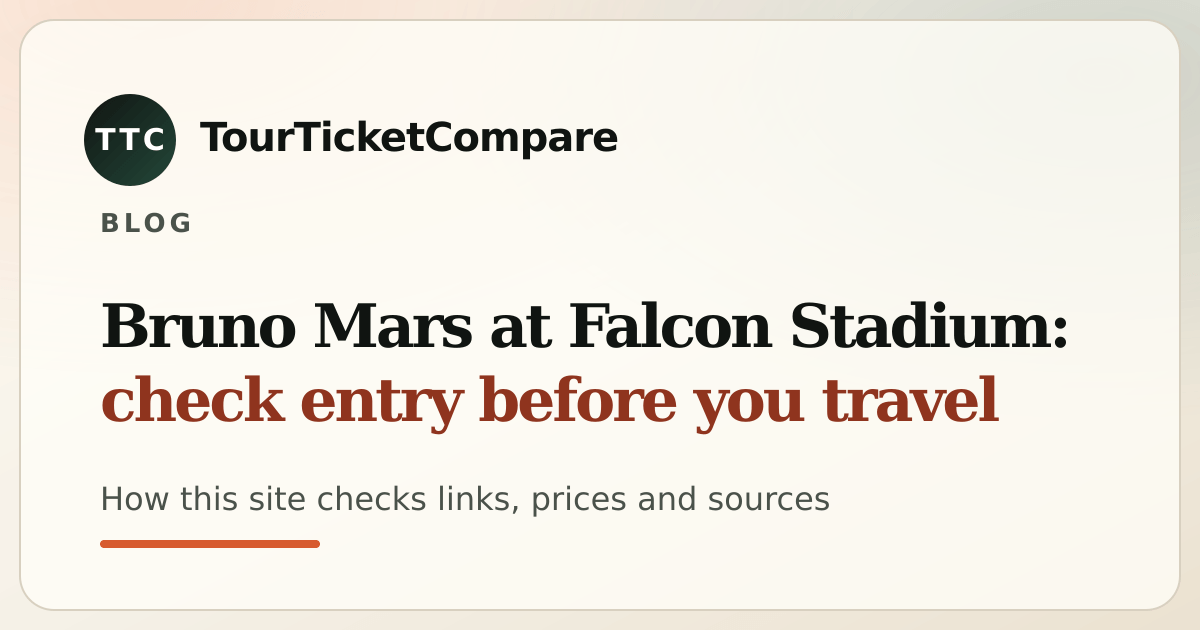
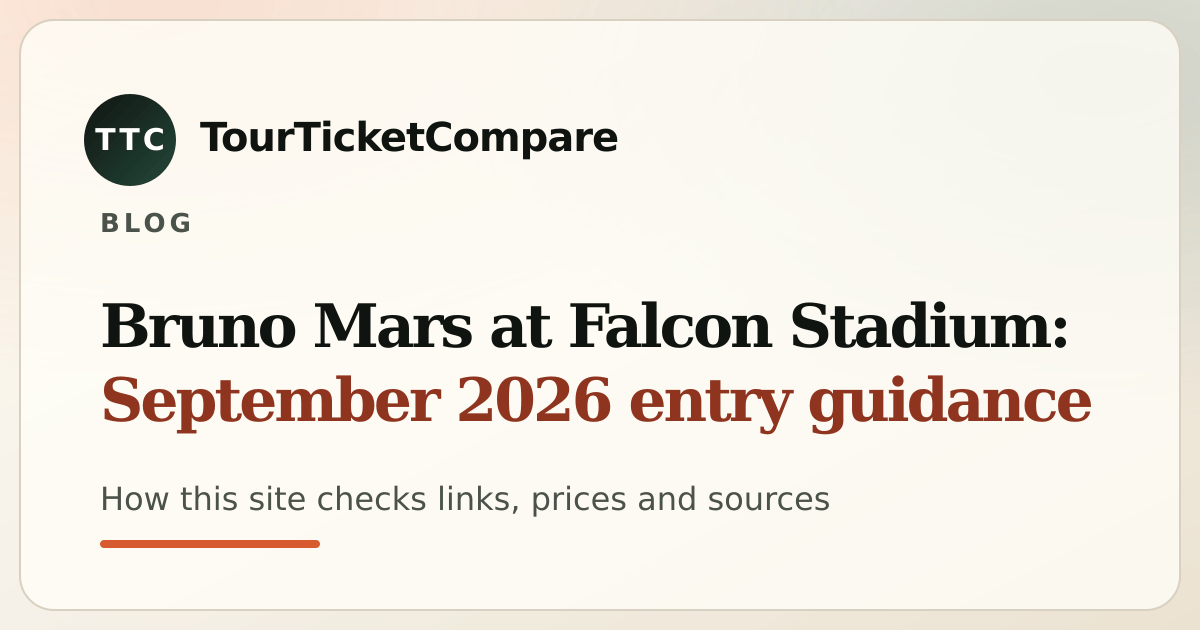
Approve price guides for the eight highest-demand eligible artists
Adds bruno-mars, olivia-rodrigo, harry-styles, ed-sheeran, tame-impala,
charli-xcx, gracie-abrams and don-omar to PRICE_GUIDE_ARTISTS. Each clears
priceGuideGate on current data, so all ten guides render indexable.
Regenerates the OG cards with npm run og:build, which also picks up cards
for routes that changed since the last build.

Claude-Session: https://claude.ai/code/session_01YKEySEYB2WoNs4zGrvLnZV

Changed region(s): [[0.0617, 0.573, 0.925, 0.6937]]

diff --git a/functions/_og-cards.generated.js b/functions/_og-cards.generated.js
@@ -9,13 +9,14 @@
 // `npm run og:check` fails only on a manifest that points at a missing file.
 
 export const OG_CARDS = {
+  "/artists/a-perfect-circle": {"url":"/og/artists-a-perfect-circle.png","alt":"Tickets & tour dates: A Perfect Circle"},
+  "/artists/a-perfect-circle/tickets/las-vegas-united-states": {"url":"/og/artists-a-perfect-circle-tickets-las-vegas-united-states.png","alt":"Tickets: A Perfect Circle in Las Vegas"},
   "/artists/alan-walker": {"url":"/og/artists-alan-walker.png","alt":"Tickets & tour dates: Alan Walker"},
   "/artists/alan-walker/tickets/new-york-united-states": {"url":"/og/artists-alan-walker-tickets-new-york-united-states.png","alt":"Tickets: Alan Walker in New York"},
   "/artists/alan-walker/tickets/toronto-canada": {"url":"/og/artists-alan-walker-tickets-toronto-canada.png","alt":"Tickets: Alan Walker in Toronto"},
   "/artists/amble": {"url":"/og/artists-amble.png","alt":"Tickets & tour dates: Amble"},
   "/artists/amble/tickets/amsterdam-netherlands": {"url":"/og/artists-amble-tickets-amsterdam-netherlands.png","alt":"Tickets: Amble in Amsterdam"},
   "/artists/amble/tickets/co-mayo-ireland": {"url":"/og/artists-amble-tickets-co-mayo-ireland.png","alt":"Tickets: Amble in Co. Mayo"},
-  "/artists/amble/tickets/glasgow-united-kingdom": {"url":"/og/artists-amble-tickets-glasgow-united-kingdom.png","alt":"Tickets: Amble in Glasgow"},
   "/artists/amble/tickets/london-united-kingdom": {"url":"/og/artists-amble-tickets-london-united-kingdom.png","alt":"Tickets: Amble in London"},
   "/artists/amble/tickets/manchester-united-kingdom": {"url":"/og/artists-amble-tickets-manchester-united-kingdom.png","alt":"Tickets: Amble in Manchester"},
   "/artists/andrea-bocelli": {"url":"/og/artists-andrea-bocelli.png","alt":"Tickets & tour dates: Andrea Bocelli"},
@@ -35,6 +36,7 @@ export const OG_CARDS = {
   "/artists/blue-october/tickets/portland-united-states": {"url":"/og/artists-blue-october-tickets-portland-united-states.png","alt":"Tickets: Blue October in Portland"},
   "/artists/blue-october/tickets/sacramento-united-states": {"url":"/og/artists-blue-october-tickets-sacramento-united-states.png","alt":"Tickets: Blue October in Sacramento"},
   "/artists/bruno-mars": {"url":"/og/artists-bruno-mars.png","alt":"Tickets & tour dates: Bruno Mars"},
+  "/artists/bruno-mars/ticket-prices": {"url":"/og/artists-bruno-mars-ticket-prices.png","alt":"Ticket prices: Bruno Mars"},
   "/artists/bruno-mars/tickets/burswood-australia": {"url":"/og/artists-bruno-mars-tickets-burswood-australia.png","alt":"Tickets: Bruno Mars in Burswood"},
   "/artists/bruno-mars/tickets/docklands-australia": {"url":"/og/artists-bruno-mars-tickets-docklands-australia.png","alt":"Tickets: Bruno Mars in Docklands"},
   "/artists/bruno-mars/tickets/inglewood-united-states": {"url":"/og/artists-bruno-mars-tickets-inglewood-united-states.png","alt":"Tickets: Bruno Mars in Inglewood"},
@@ -46,8 +48,13 @@ export const OG_CARDS = {
   "/artists/bts/tickets/docklands-australia": {"url":"/og/artists-bts-tickets-docklands-australia.png","alt":"Tickets: BTS in Docklands"},
   "/artists/bts/tickets/sydney-olympic-park-australia": {"url":"/og/artists-bts-tickets-sydney-olympic-park-australia.png","alt":"Tickets: BTS in Sydney Olympic Park"},
   "/artists/charli-xcx": {"url":"/og/artists-charli-xcx.png","alt":"Tickets & tour dates: Charli xcx"},
+  "/artists/charli-xcx/ticket-prices": {"url":"/og/artists-charli-xcx-ticket-prices.png","alt":"Ticket prices: Charli xcx"},
   "/artists/charli-xcx/tickets/inglewood-united-states": {"url":"/og/artists-charli-xcx-tickets-inglewood-united-states.png","alt":"Tickets: Charli xcx in Inglewood"},
   "/artists/charli-xcx/tickets/london-united-kingdom": {"url":"/og/artists-charli-xcx-tickets-london-united-kingdom.png","alt":"Tickets: Charli xcx in London"},
+  "/artists/chelsea-cutler": {"url":"/og/artists-chelsea-cutler.png","alt":"Tickets & tour dates: Chelsea Cutler"},
+  "/artists/chelsea-cutler/tickets/washington-united-states": {"url":"/og/artists-chelsea-cutler-tickets-washington-united-states.png","alt":"Tickets: Chelsea Cutler in Washington"},
+  "/artists/daughtry": {"url":"/og/artists-daughtry.png","alt":"Tickets & tour dates: Daughtry"},
+  "/artists/daughtry/tickets/nashville-united-states": {"url":"/og/artists-daughtry-tickets-nashville-united-states.png","alt":"Tickets: Daughtry in Nashville"},
   "/artists/death-cab-for-cutie": {"url":"/og/artists-death-cab-for-cutie.png","alt":"Tickets & tour dates: Death Cab for Cutie"},
   "/artists/death-cab-for-cutie/tickets/atlanta-united-states": {"url":"/og/artists-death-cab-for-cutie-tickets-atlanta-united-states.png","alt":"Tickets: Death Cab for Cutie in Atlanta"},
   "/artists/death-cab-for-cutie/tickets/boston-united-states": {"url":"/og/artists-death-cab-for-cutie-tickets-boston-united-states.png","alt":"Tickets: Death Cab for Cutie in Boston"},
@@ -56,6 +63,7 @@ export const OG_CARDS = {
   "/artists/dinosaur-jr/tickets/seattle-united-states": {"url":"/og/artists-dinosaur-jr-tickets-seattle-united-states.png","alt":"Tickets: Dinosaur Jr. in Seattle"},
   "/artists/doja-cat": {"url":"/og/artists-doja-cat.png","alt":"Tickets & tour dates: Doja Cat"},
   "/artists/don-omar": {"url":"/og/artists-don-omar.png","alt":"Tickets & tour dates: Don Omar"},
+  "/artists/don-omar/ticket-prices": {"url":"/og/artists-don-omar-ticket-prices.png","alt":"Ticket prices: Don Omar"},
   "/artists/don-omar/tickets/inglewood-united-states": {"url":"/og/artists-don-omar-tickets-inglewood-united-states.png","alt":"Tickets: Don Omar in Inglewood"},
   "/artists/don-omar/tickets/miami-united-states": {"url":"/og/artists-don-omar-tickets-miami-united-states.png","alt":"Tickets: Don Omar in Miami"},
   "/artists/don-omar/tickets/newark-united-states": {"url":"/og/artists-don-omar-tickets-newark-united-states.png","alt":"Tickets: Don Omar in Newark"},
@@ -63,8 +71,10 @@ export const OG_CARDS = {
   "/artists/don-omar/tickets/rosemont-united-states": {"url":"/og/artists-don-omar-tickets-rosemont-united-states.png","alt":"Tickets: Don Omar in Rosemont"},
   "/artists/dylan-scott": {"url":"/og/artists-dylan-scott.png","alt":"Tickets & tour dates: Dylan Scott"},
   "/artists/ed-sheeran": {"url":"/og/artists-ed-sheeran.png","alt":"Tickets & tour dates: Ed Sheeran"},
+  "/artists/ed-sheeran/ticket-prices": {"url":"/og/artists-ed-sheeran-ticket-prices.png","alt":"Ticket prices: Ed Sheeran"},
   "/artists/ed-sheeran/tickets/hollywood-united-states": {"url":"/og/artists-ed-sheeran-tickets-hollywood-united-states.png","alt":"Tickets: Ed Sheeran in Hollywood"},
   "/artists/eros-ramazzotti": {"url":"/og/artists-eros-ramazzotti.png","alt":"Tickets & tour dates: Eros Ramazzotti"},
+  "/artists/fantasia": {"url":"/og/artists-fantasia.png","alt":"Tickets & tour dates: Fantasia"},
   "/artists/five-finger-death-punch": {"url":"/og/artists-five-finger-death-punch.png","alt":"Tickets & tour dates: Five Finger Death Punch"},
   "/artists/fkj": {"url":"/og/artists-fkj.png","alt":"Tickets & tour dates: FKJ"},
   "/artists/fkj/tickets/london-united-kingdom": {"url":"/og/artists-fkj-tickets-london-united-kingdom.png","alt":"Tickets: FKJ in London"},
@@ -74,6 +84,7 @@ export const OG_CARDS = {
   "/artists/foy-vance/tickets/london-united-kingdom": {"url":"/og/artists-foy-vance-tickets-london-united-kingdom.png","alt":"Tickets: Foy Vance in London"},
   "/artists/foy-vance/tickets/los-angeles-united-states": {"url":"/og/artists-foy-vance-tickets-los-angeles-united-states.png","alt":"Tickets: Foy Vance in Los Angeles"},
   "/artists/gracie-abrams": {"url":"/og/artists-gracie-abrams.png","alt":"Tickets & tour dates: Gracie Abrams"},
+  "/artists/gracie-abrams/ticket-prices": {"url":"/og/artists-gracie-abrams-ticket-prices.png","alt":"Ticket prices: Gracie Abrams"},
   "/artists/gracie-abrams/tickets/amsterdam-netherlands": {"url":"/og/artists-gracie-abrams-tickets-amsterdam-netherlands.png","alt":"Tickets: Gracie Abrams in Amsterdam"},
   "/artists/gracie-abrams/tickets/atlanta-united-states": {"url":"/og/artists-gracie-abrams-tickets-atlanta-united-states.png","alt":"Tickets: Gracie Abrams in Atlanta"},
   "/artists/gracie-abrams/tickets/barcelona-spain": {"url":"/og/artists-gracie-abrams-tickets-barcelona-spain.png","alt":"Tickets: Gracie Abrams in Barcelona"},
@@ -102,6 +113,7 @@ export const OG_CARDS = {
   "/artists/haiden-henderson": {"url":"/og/artists-haiden-henderson.png","alt":"Tickets & tour dates: Haiden Henderson"},
   "/artists/hans-zimmer": {"url":"/og/artists-hans-zimmer.png","alt":"Tickets & tour dates: Hans Zimmer"},
   "/artists/harry-styles": {"url":"/og/artists-harry-styles.png","alt":"Tickets & tour dates: Harry Styles"},
+  "/artists/harry-styles/ticket-prices": {"url":"/og/artists-harry-styles-ticket-prices.png","alt":"Ticket prices: Harry Styles"},
   "/artists/harry-styles/tickets/arlington-united-states": {"url":"/og/artists-harry-styles-tickets-arlington-united-states.png","alt":"Tickets: Harry Styles in Arlington"},
   "/artists/harry-styles/tickets/atlanta-united-states": {"url":"/og/artists-harry-styles-tickets-atlanta-united-states.png","alt":"Tickets: Harry Styles in Atlanta"},
   "/artists/harry-styles/tickets/chicago-united-states": {"url":"/og/artists-harry-styles-tickets-chicago-united-states.png","alt":"Tickets: Harry Styles in Chicago"},
@@ -156,7 +168,6 @@ export const OG_CARDS = {
   "/artists/michelle-branch/tickets/los-angeles-united-states": {"url":"/og/artists-michelle-branch-tickets-los-angeles-united-states.png","alt":"Tickets: Michelle Branch in Los Angeles"},
   "/artists/michelle-branch/tickets/nashville-united-states": {"url":"/og/artists-michelle-branch-tickets-nashville-united-states.png","alt":"Tickets: Michelle Branch in Nashville"},
   "/artists/michelle-branch/tickets/new-york-united-states": {"url":"/og/artists-michelle-branch-tickets-new-york-united-states.png","alt":"Tickets: Michelle Branch in New York"},
-  "/artists/michelle-branch/tickets/san-francisco-united-states": {"url":"/og/artists-michelle-branch-tickets-san-francisco-united-states.png","alt":"Tickets: Michelle Branch in San Francisco"},
   "/artists/missio": {"url":"/og/artists-missio.png","alt":"Tickets & tour dates: Missio"},
   "/artists/morat": {"url":"/og/artists-morat.png","alt":"Tickets & tour dates: Morat"},
   "/artists/morgan-wallen": {"url":"/og/artists-morgan-wallen.png","alt":"Tickets & tour dates: Morgan Wallen"},
@@ -183,6 +194,7 @@ export const OG_CARDS = {
   "/artists/oasis/tickets/munich-germany": {"url":"/og/artists-oasis-tickets-munich-germany.png","alt":"Tickets: Oasis in Munich"},
   "/artists/oasis/tickets/stevenage-united-kingdom": {"url":"/og/artists-oasis-tickets-stevenage-united-kingdom.png","alt":"Tickets: Oasis in Stevenage"},
   "/artists/olivia-rodrigo": {"url":"/og/artists-olivia-rodrigo.png","alt":"Tickets & tour dates: Olivia Rodrigo"},
+  "/artists/olivia-rodrigo/ticket-prices": {"url":"/og/artists-olivia-rodrigo-ticket-prices.png","alt":"Ticket prices: Olivia Rodrigo"},
   "/artists/olivia-rodrigo/tickets/amsterdam-netherlands": {"url":"/og/artists-olivia-rodrigo-tickets-amsterdam-netherlands.png","alt":"Tickets: Olivia Rodrigo in Amsterdam"},
   "/artists/olivia-rodrigo/tickets/atlanta-united-states": {"url":"/og/artists-olivia-rodrigo-tickets-atlanta-united-states.png","alt":"Tickets: Olivia Rodrigo in Atlanta"},
   "/artists/olivia-rodrigo/tickets/barcelona-spain": {"url":"/og/artists-olivia-rodrigo-tickets-barcelona-spain.png","alt":"Tickets: Olivia Rodrigo in Barcelona"},
@@ -250,6 +262,7 @@ export const OG_CARDS = {
   "/artists/sylvan-esso/tickets/portland-united-states": {"url":"/og/artists-sylvan-esso-tickets-portland-united-states.png","alt":"Tickets: Sylvan Esso in Portland"},
   "/artists/sylvan-esso/tickets/washington-united-states": {"url":"/og/artists-sylvan-esso-tickets-washington-united-states.png","alt":"Tickets: Sylvan Esso in Washington"},
   "/artists/tame-impala": {"url":"/og/artists-tame-impala.png","alt":"Tickets & tour dates: Tame Impala"},
+  "/artists/tame-impala/ticket-prices": {"url":"/og/artists-tame-impala-ticket-prices.png","alt":"Ticket prices: Tame Impala"},
   "/artists/tame-impala/tickets/london-united-kingdom": {"url":"/og/artists-tame-impala-tickets-london-united-kingdom.png","alt":"Tickets: Tame Impala in London"},
   "/artists/tame-impala/tickets/manchester-united-kingdom": {"url":"/og/artists-tame-impala-tickets-manchester-united-kingdom.png","alt":"Tickets: Tame Impala in Manchester"},
   "/artists/tame-impala/tickets/rotterdam-netherlands": {"url":"/og/artists-tame-impala-tickets-rotterdam-netherlands.png","alt":"Tickets: Tame Impala in Rotterdam"},
@@ -266,6 +279,11 @@ export const OG_CARDS = {
   "/artists/the-interrupters": {"url":"/og/artists-the-interrupters.png","alt":"Tickets & tour dates: The Interrupters"},
   "/artists/the-lemonheads": {"url":"/og/artists-the-lemonheads.png","alt":"Tickets & tour dates: The Lemonheads"},
   "/artists/the-psychedelic-furs": {"url":"/og/artists-the-psychedelic-furs.png","alt":"Tickets & tour dates: The Psychedelic Furs"},
+  "/artists/the-red-clay-strays": {"url":"/og/artists-the-red-clay-strays.png","alt":"Tickets & tour dates: The Red Clay Strays"},
+  "/artists/the-red-clay-strays/tickets/charleston-united-states": {"url":"/og/artists-the-red-clay-strays-tickets-charleston-united-states.png","alt":"Tickets: The Red Clay Strays in Charleston"},
+  "/artists/the-red-clay-strays/tickets/fort-worth-united-states": {"url":"/og/artists-the-red-clay-strays-tickets-fort-worth-united-states.png","alt":"Tickets: The Red Clay Strays in Fort Worth"},
+  "/artists/the-red-clay-strays/tickets/mobile-united-states": {"url":"/og/artists-the-red-clay-strays-tickets-mobile-united-states.png","alt":"Tickets: The Red Clay Strays in Mobile"},
+  "/artists/the-red-clay-strays/tickets/nashville-united-states": {"url":"/og/artists-the-red-clay-strays-tickets-nashville-united-states.png","alt":"Tickets: The Red Clay Strays in Nashville"},
   "/artists/the-warning": {"url":"/og/artists-the-warning.png","alt":"Tickets & tour dates: The Warning"},
   "/artists/the-weeknd": {"url":"/og/artists-the-weeknd.png","alt":"Tickets & tour dates: The Weeknd"},
   "/artists/tobymac": {"url":"/og/artists-tobymac.png","alt":"Tickets & tour dates: TobyMac"},
@@ -288,7 +306,7 @@ export const OG_CARDS = {
   "/artists/yuridia/tickets/rosemont-united-states": {"url":"/og/artists-yuridia-tickets-rosemont-united-states.png","alt":"Tickets: Yuridia in Rosemont"},
   "/artists/zach-bryan": {"url":"/og/artists-zach-bryan.png","alt":"Tickets & tour dates: Zach Bryan"},
   "/artists/zach-bryan/tickets/foxborough-united-states": {"url":"/og/artists-zach-bryan-tickets-foxborough-united-states.png","alt":"Tickets: Zach Bryan in Foxborough"},
-  "/blog/bruno-mars-falcon-stadium-base-access": {"url":"/og/blog-bruno-mars-falcon-stadium-base-access.png","alt":"Blog: Bruno Mars at Falcon Stadium: check entry before you travel"},
+  "/blog/bruno-mars-falcon-stadium-base-access": {"url":"/og/blog-bruno-mars-falcon-stadium-base-access.png","alt":"Blog: Bruno Mars at Falcon Stadium: September 2026 entry guidance"},
   "/blog/buying-tickets-for-a-concert-in-another-country": {"url":"/og/blog-buying-tickets-for-a-concert-in-another-country.png","alt":"Blog: Buying tickets for a concert in another country"},
   "/blog/choosing-a-harry-styles-madison-square-garden-night": {"url":"/og/blog-choosing-a-harry-styles-madison-square-garden-night.png","alt":"Blog: Choosing a Harry Styles night at Madison Square Garden"},
   "/blog/floor-or-seats-at-a-stadium-concert": {"url":"/og/blog-floor-or-seats-at-a-stadium-concert.png","alt":"Blog: Floor or seats at a stadium concert: how to choose"},
@@ -337,6 +355,7 @@ export const OG_CARDS = {
   "/cities/duluth-united-states": {"url":"/og/cities-duluth-united-states.png","alt":"Concerts in: Duluth"},
   "/cities/durham-united-states": {"url":"/og/cities-durham-united-states.png","alt":"Concerts in: Durham"},
   "/cities/edinburgh-united-kingdom": {"url":"/og/cities-edinburgh-united-kingdom.png","alt":"Concerts in: Edinburgh"},
+  "/cities/edmonton-canada": {"url":"/og/cities-edmonton-canada.png","alt":"Concerts in: Edmonton"},
   "/cities/el-paso-united-states": {"url":"/og/cities-el-paso-united-states.png","alt":"Concerts in: El Paso"},
   "/cities/englewood-united-states": {"url":"/og/cities-englewood-united-states.png","alt":"Concerts in: Englewood"},
   "/cities/fairfax-united-states": {"url":"/og/cities-fairfax-united-states.png","alt":"Concerts in: Fairfax"},
@@ -350,6 +369,7 @@ export const OG_CARDS = {
   "/cities/greenville-united-states": {"url":"/og/cities-greenville-united-states.png","alt":"Concerts in: Greenville"},
   "/cities/hamburg-germany": {"url":"/og/cities-hamburg-germany.png","alt":"Concerts in: Hamburg"},
   "/cities/hamilton-canada": {"url":"/og/cities-hamilton-canada.png","alt":"Concerts in: Hamilton"},
+  "/cities/hershey-united-states": {"url":"/og/cities-hershey-united-states.png","alt":"Concerts in: Hershey"},
   "/cities/hollywood-united-states": {"url":"/og/cities-hollywood-united-states.png","alt":"Concerts in: Hollywood"},
   "/cities/houston-united-states": {"url":"/og/cities-houston-united-states.png","alt":"Concerts in: Houston"},
   "/cities/huntington-united-states": {"url":"/og/cities-huntington-united-states.png","alt":"Concerts in: Huntington"},
@@ -358,6 +378,7 @@ export const OG_CARDS = {
   "/cities/irving-united-states": {"url":"/og/cities-irving-united-states.png","alt":"Concerts in: Irving"},
   "/cities/jacksonville-united-states": {"url":"/og/cities-jacksonville-united-states.png","alt":"Concerts in: Jacksonville"},
   "/cities/kansas-city-united-states": {"url":"/og/cities-kansas-city-united-states.png","alt":"Concerts in: Kansas City"},
+  "/cities/knoxville-united-states": {"url":"/og/cities-knoxville-united-states.png","alt":"Concerts in: Knoxville"},
   "/cities/las-vegas-united-states": {"url":"/og/cities-las-vegas-united-states.png","alt":"Concerts in: Las Vegas"},
   "/cities/london-united-kingdom": {"url":"/og/cities-london-united-kingdom.png","alt":"Concerts in: London"},
   "/cities/los-angeles-united-states": {"url":"/og/cities-los-angeles-united-states.png","alt":"Concerts in: Los Angeles"},
@@ -386,6 +407,7 @@ export const OG_CARDS = {
   "/cities/portland-united-states": {"url":"/og/cities-portland-united-states.png","alt":"Concerts in: Portland"},
   "/cities/raleigh-united-states": {"url":"/og/cities-raleigh-united-states.png","alt":"Concerts in: Raleigh"},
   "/cities/reno-united-states": {"url":"/og/cities-reno-united-states.png","alt":"Concerts in: Reno"},
+  "/cities/rockford-united-states": {"url":"/og/cities-rockford-united-states.png","alt":"Concerts in: Rockford"},
   "/cities/rosemont-united-states": {"url":"/og/cities-rosemont-united-states.png","alt":"Concerts in: Rosemont"},
   "/cities/rotterdam-netherlands": {"url":"/og/cities-rotterdam-netherlands.png","alt":"Concerts in: Rotterdam"},
   "/cities/sacramento-united-states": {"url":"/og/cities-sacramento-united-states.png","alt":"Concerts in: Sacramento"},
@@ -402,11 +424,13 @@ export const OG_CARDS = {
   "/cities/sydney-olympic-park-australia": {"url":"/og/cities-sydney-olympic-park-australia.png","alt":"Concerts in: Sydney Olympic Park"},
   "/cities/tampa-united-states": {"url":"/og/cities-tampa-united-states.png","alt":"Concerts in: Tampa"},
   "/cities/toronto-canada": {"url":"/og/cities-toronto-canada.png","alt":"Concerts in: Toronto"},
+  "/cities/tucson-united-states": {"url":"/og/cities-tucson-united-states.png","alt":"Concerts in: Tucson"},
   "/cities/tulsa-united-states": {"url":"/og/cities-tulsa-united-states.png","alt":"Concerts in: Tulsa"},
   "/cities/uncasville-united-states": {"url":"/og/cities-uncasville-united-states.png","alt":"Concerts in: Uncasville"},
   "/cities/vancouver-canada": {"url":"/og/cities-vancouver-canada.png","alt":"Concerts in: Vancouver"},
   "/cities/washington-united-states": {"url":"/og/cities-washington-united-states.png","alt":"Concerts in: Washington"},
   "/cities/west-melbourne-australia": {"url":"/og/cities-west-melbourne-australia.png","alt":"Concerts in: West Melbourne"},
+  "/cities/winnipeg-canada": {"url":"/og/cities-winnipeg-canada.png","alt":"Concerts in: Winnipeg"},
   "/guides/concert-ticket-fees-explained": {"url":"/og/guides-concert-ticket-fees-explained.png","alt":"Guide: What concert ticket fees should I check before buying?"},
   "/guides/how-resale-ticket-pricing-works": {"url":"/og/guides-how-resale-ticket-pricing-works.png","alt":"Guide: How does resale ticket pricing work?"},
   "/guides/how-to-avoid-overpaying-for-concert-tickets": {"url":"/og/guides-how-to-avoid-overpaying-for-concert-tickets.png","alt":"Guide: How do I avoid overpaying for concert tickets?"},
@@ -457,9 +481,15 @@ export const OG_CARDS = {
   "/venues/bridgestone-arena-nashville": {"url":"/og/venues-bridgestone-arena-nashville.png","alt":"Concerts at: Bridgestone Arena"},
   "/venues/brooklyn-bowl-nashville-nashville": {"url":"/og/venues-brooklyn-bowl-nashville-nashville.png","alt":"Concerts at: Brooklyn Bowl Nashville"},
   "/venues/brooklyn-paramount-brooklyn": {"url":"/og/venues-brooklyn-paramount-brooklyn.png","alt":"Concerts at: Brooklyn Paramount"},
+  "/venues/brookshire-grocery-arena-bossier-city": {"url":"/og/venues-brookshire-grocery-arena-bossier-city.png","alt":"Concerts at: Brookshire Grocery Arena"},
+  "/venues/brown-county-music-center-nashville": {"url":"/og/venues-brown-county-music-center-nashville.png","alt":"Concerts at: Brown County Music Center"},
+  "/venues/canada-life-centre-winnipeg": {"url":"/og/venues-canada-life-centre-winnipeg.png","alt":"Concerts at: Canada Life Centre"},
+  "/venues/canyon-view-credit-union-stage-at-maverik-center-west-valley-city": {"url":"/og/venues-canyon-view-credit-union-stage-at-maverik-center-west-valley-city.png","alt":"Concerts at: Canyon View Credit Union Stage at Maverik Center"},
   "/venues/capital-one-arena-washington": {"url":"/og/venues-capital-one-arena-washington.png","alt":"Concerts at: Capital One Arena"},
   "/venues/centre-bell-montreal": {"url":"/og/venues-centre-bell-montreal.png","alt":"Concerts at: Centre Bell"},
   "/venues/cfg-bank-arena-baltimore": {"url":"/og/venues-cfg-bank-arena-baltimore.png","alt":"Concerts at: CFG Bank Arena"},
+  "/venues/chaifetz-arena-saint-louis": {"url":"/og/venues-chaifetz-arena-saint-louis.png","alt":"Concerts at: Chaifetz Arena"},
+  "/venues/channel-24-sacramento": {"url":"/og/venues-channel-24-sacramento.png","alt":"Concerts at: Channel 24"},
   "/venues/chase-center-san-francisco": {"url":"/og/venues-chase-center-san-francisco.png","alt":"Concerts at: Chase Center"},
   "/venues/citizens-house-of-blues-boston-boston": {"url":"/og/venues-citizens-house-of-blues-boston-boston.png","alt":"Concerts at: Citizens House of Blues Boston"},
   "/venues/citizens-live-at-the-wylie-pittsburgh": {"url":"/og/venues-citizens-live-at-the-wylie-pittsburgh.png","alt":"Concerts at: Citizens Live at The Wylie"},
@@ -467,18 +497,21 @@ export const OG_CARDS = {
   "/venues/co-op-live-manchester": {"url":"/og/venues-co-op-live-manchester.png","alt":"Concerts at: Co-op Live"},
   "/venues/coca-cola-roxy-atlanta": {"url":"/og/venues-coca-cola-roxy-atlanta.png","alt":"Concerts at: Coca-Cola Roxy"},
   "/venues/commodore-ballroom-vancouver": {"url":"/og/venues-commodore-ballroom-vancouver.png","alt":"Concerts at: Commodore Ballroom"},
+  "/venues/criterion-theater-oklahoma-city-oklahoma-city": {"url":"/og/venues-criterion-theater-oklahoma-city-oklahoma-city.png","alt":"Concerts at: Criterion Theater - Oklahoma City"},
   "/venues/delta-center-salt-lake-city": {"url":"/og/venues-delta-center-salt-lake-city.png","alt":"Concerts at: Delta Center"},
   "/venues/desert-diamond-arena-glendale": {"url":"/og/venues-desert-diamond-arena-glendale.png","alt":"Concerts at: Desert Diamond Arena"},
   "/venues/dickies-arena-fort-worth": {"url":"/og/venues-dickies-arena-fort-worth.png","alt":"Concerts at: Dickies Arena"},
   "/venues/don-haskins-center-el-paso": {"url":"/og/venues-don-haskins-center-el-paso.png","alt":"Concerts at: Don Haskins Center"},
   "/venues/dpac-durham": {"url":"/og/venues-dpac-durham.png","alt":"Concerts at: DPAC"},
   "/venues/eaglebank-arena-fairfax": {"url":"/og/venues-eaglebank-arena-fairfax.png","alt":"Concerts at: EagleBank Arena"},
+  "/venues/enterprise-center-saint-louis": {"url":"/og/venues-enterprise-center-saint-louis.png","alt":"Concerts at: Enterprise Center"},
   "/venues/estadi-ol-mpic-lluis-companys-barcelona": {"url":"/og/venues-estadi-ol-mpic-lluis-companys-barcelona.png","alt":"Concerts at: Estadi Olímpic Lluis Companys"},
   "/venues/estadio-riyadh-air-metropolitano-madrid": {"url":"/og/venues-estadio-riyadh-air-metropolitano-madrid.png","alt":"Concerts at: Estadio Riyadh Air Metropolitano"},
   "/venues/festival-hall-melbourne-west-melbourne": {"url":"/og/venues-festival-hall-melbourne-west-melbourne.png","alt":"Concerts at: Festival Hall Melbourne"},
   "/venues/fillmore-auditorium-denver-denver": {"url":"/og/venues-fillmore-auditorium-denver-denver.png","alt":"Concerts at: Fillmore Auditorium (Denver)"},
   "/venues/first-avenue-minneapolis": {"url":"/og/venues-first-avenue-minneapolis.png","alt":"Concerts at: First Avenue"},
   "/venues/fiserv-forum-milwaukee": {"url":"/og/venues-fiserv-forum-milwaukee.png","alt":"Concerts at: Fiserv Forum"},
+  "/venues/fontainebleau-las-vegas-las-vegas": {"url":"/og/venues-fontainebleau-las-vegas-las-vegas.png","alt":"Concerts at: Fontainebleau Las Vegas"},
   "/venues/fox-theater-oakland-oakland": {"url":"/og/venues-fox-theater-oakland-oakland.png","alt":"Concerts at: Fox Theater - Oakland"},
   "/venues/franklin-music-hall-philadelphia": {"url":"/og/venues-franklin-music-hall-philadelphia.png","alt":"Concerts at: Franklin Music Hall"},
   "/venues/frost-bank-center-san-antonio": {"url":"/og/venues-frost-bank-center-san-antonio.png","alt":"Concerts at: Frost Bank Center"},
@@ -493,16 +526,19 @@ export const OG_CARDS = {
   "/venues/hackensack-meridian-health-theatre-at-the-count-basie-center-red-bank": {"url":"/og/venues-hackensack-meridian-health-theatre-at-the-count-basie-center-red-bank.png","alt":"Concerts at: Hackensack Meridian Health Theatre at the Count Basie Center"},
   "/venues/hard-rock-live-hollywood": {"url":"/og/venues-hard-rock-live-hollywood.png","alt":"Concerts at: Hard Rock Live"},
   "/venues/hard-rock-live-orlando-orlando": {"url":"/og/venues-hard-rock-live-orlando-orlando.png","alt":"Concerts at: Hard Rock Live Orlando"},
+  "/venues/hard-rock-live-rockford-rockford": {"url":"/og/venues-hard-rock-live-rockford-rockford.png","alt":"Concerts at: Hard Rock Live Rockford"},
   "/venues/hard-rock-live-sacramento-wheatland": {"url":"/og/venues-hard-rock-live-sacramento-wheatland.png","alt":"Concerts at: Hard Rock Live Sacramento"},
   "/venues/harrah-s-cherokee-center-asheville-asheville": {"url":"/og/venues-harrah-s-cherokee-center-asheville-asheville.png","alt":"Concerts at: Harrah's Cherokee Center - Asheville"},
   "/venues/history-ottawa-ottawa": {"url":"/og/venues-history-ottawa-ottawa.png","alt":"Concerts at: History Ottawa"},
   "/venues/history-toronto-toronto": {"url":"/og/venues-history-toronto-toronto.png","alt":"Concerts at: History Toronto"},
+  "/venues/hollywood-bowl-hollywood": {"url":"/og/venues-hollywood-bowl-hollywood.png","alt":"Concerts at: Hollywood Bowl"},
   "/venues/hollywood-palladium-hollywood": {"url":"/og/venues-hollywood-palladium-hollywood.png","alt":"Concerts at: Hollywood Palladium"},
   "/venues/honda-center-anaheim": {"url":"/og/venues-honda-center-anaheim.png","alt":"Concerts at: Honda Center"},
   "/venues/house-of-blues-anaheim-anaheim": {"url":"/og/venues-house-of-blues-anaheim-anaheim.png","alt":"Concerts at: House of Blues Anaheim"},
   "/venues/house-of-blues-chicago-chicago": {"url":"/og/venues-house-of-blues-chicago-chicago.png","alt":"Concerts at: House of Blues Chicago"},
   "/venues/house-of-blues-dallas-dallas": {"url":"/og/venues-house-of-blues-dallas-dallas.png","alt":"Concerts at: House of Blues Dallas"},
   "/venues/house-of-blues-houston-houston": {"url":"/og/venues-house-of-blues-houston-houston.png","alt":"Concerts at: House of Blues Houston"},
+  "/venues/hoyt-sherman-place-des-moines": {"url":"/og/venues-hoyt-sherman-place-des-moines.png","alt":"Concerts at: Hoyt Sherman Place"},
   "/venues/intuit-dome-inglewood": {"url":"/og/venues-intuit-dome-inglewood.png","alt":"Concerts at: Intuit Dome"},
   "/venues/jannus-live-st-petersburg": {"url":"/og/venues-jannus-live-st-petersburg.png","alt":"Concerts at: Jannus Live"},
   "/venues/johan-cruijff-arena-amsterdam": {"url":"/og/venues-johan-cruijff-arena-amsterdam.png","alt":"Concerts at: Johan Cruijff ArenA"},
@@ -538,18 +574,22 @@ export const OG_CARDS = {
   "/venues/oakland-arena-oakland": {"url":"/og/venues-oakland-arena-oakland.png","alt":"Concerts at: Oakland Arena"},
   "/venues/ogden-theatre-denver": {"url":"/og/venues-ogden-theatre-denver.png","alt":"Concerts at: Ogden Theatre"},
   "/venues/old-national-centre-indianapolis": {"url":"/og/venues-old-national-centre-indianapolis.png","alt":"Concerts at: Old National Centre"},
+  "/venues/olg-stage-at-fallsview-casino-niagara-falls": {"url":"/og/venues-olg-stage-at-fallsview-casino-niagara-falls.png","alt":"Concerts at: OLG Stage at Fallsview Casino"},
   "/venues/olympiahalle-munich": {"url":"/og/venues-olympiahalle-munich.png","alt":"Concerts at: Olympiahalle"},
   "/venues/ovo-hydro-glasgow": {"url":"/og/venues-ovo-hydro-glasgow.png","alt":"Concerts at: OVO Hydro"},
   "/venues/palau-sant-jordi-barcelona": {"url":"/og/venues-palau-sant-jordi-barcelona.png","alt":"Concerts at: Palau Sant Jordi"},
   "/venues/paramount-theatre-seattle": {"url":"/og/venues-paramount-theatre-seattle.png","alt":"Concerts at: Paramount Theatre"},
   "/venues/payne-arena-hidalgo": {"url":"/og/venues-payne-arena-hidalgo.png","alt":"Concerts at: Payne Arena"},
+  "/venues/pearl-concert-theater-at-palms-casino-resort-las-vegas": {"url":"/og/venues-pearl-concert-theater-at-palms-casino-resort-las-vegas.png","alt":"Concerts at: Pearl Concert Theater at Palms Casino Resort"},
   "/venues/pechanga-arena-san-diego-san-diego": {"url":"/og/venues-pechanga-arena-san-diego-san-diego.png","alt":"Concerts at: Pechanga Arena San Diego"},
   "/venues/pikes-peak-center-colorado-springs": {"url":"/og/venues-pikes-peak-center-colorado-springs.png","alt":"Concerts at: Pikes Peak Center"},
   "/venues/ppg-paints-arena-pittsburgh": {"url":"/og/venues-ppg-paints-arena-pittsburgh.png","alt":"Concerts at: PPG Paints Arena"},
   "/venues/prudential-center-newark": {"url":"/og/venues-prudential-center-newark.png","alt":"Concerts at: Prudential Center"},
   "/venues/raymond-james-stadium-tampa": {"url":"/og/venues-raymond-james-stadium-tampa.png","alt":"Concerts at: Raymond James Stadium"},
+  "/venues/riverstage-brisbane": {"url":"/og/venues-riverstage-brisbane.png","alt":"Concerts at: Riverstage"},
   "/venues/rocket-arena-cleveland": {"url":"/og/venues-rocket-arena-cleveland.png","alt":"Concerts at: Rocket Arena"},
   "/venues/rogers-arena-vancouver": {"url":"/og/venues-rogers-arena-vancouver.png","alt":"Concerts at: Rogers Arena"},
+  "/venues/rogers-place-edmonton": {"url":"/og/venues-rogers-place-edmonton.png","alt":"Concerts at: Rogers Place"},
   "/venues/roseland-theater-portland": {"url":"/og/venues-roseland-theater-portland.png","alt":"Concerts at: Roseland Theater"},
   "/venues/rosemont-theatre-rosemont": {"url":"/og/venues-rosemont-theatre-rosemont.png","alt":"Concerts at: Rosemont Theatre"},
   "/venues/rotterdam-ahoy-rotterdam": {"url":"/og/venues-rotterdam-ahoy-rotterdam.png","alt":"Concerts at: Rotterdam Ahoy"},
@@ -577,6 +617,7 @@ export const OG_CARDS = {
   "/venues/terminal-5-new-york": {"url":"/og/venues-terminal-5-new-york.png","alt":"Concerts at: Terminal 5"},
   "/venues/the-academy-dublin": {"url":"/og/venues-the-academy-dublin.png","alt":"Concerts at: The Academy"},
   "/venues/the-anthem-washington": {"url":"/og/venues-the-anthem-washington.png","alt":"Concerts at: The Anthem"},
+  "/venues/the-bellwether-los-angeles": {"url":"/og/venues-the-bellwether-los-angeles.png","alt":"Concerts at: The Bellwether"},
   "/venues/the-castro-theatre-san-francisco": {"url":"/og/venues-the-castro-theatre-san-francisco.png","alt":"Concerts at: The Castro Theatre"},
   "/venues/the-charleston-music-hall-charleston": {"url":"/og/venues-the-charleston-music-hall-charleston.png","alt":"Concerts at: The Charleston Music Hall"},
   "/venues/the-complex-ut-salt-lake-city": {"url":"/og/venues-the-complex-ut-salt-lake-city.png","alt":"Concerts at: The Complex - UT"},
@@ -593,6 +634,7 @@ export const OG_CARDS = {
   "/venues/the-fortitude-music-hall-brisbane": {"url":"/og/venues-the-fortitude-music-hall-brisbane.png","alt":"Concerts at: The Fortitude Music Hall"},
   "/venues/the-masquerade-hell-atlanta": {"url":"/og/venues-the-masquerade-hell-atlanta.png","alt":"Concerts at: The Masquerade - Hell"},
   "/venues/the-o2-london": {"url":"/og/venues-the-o2-london.png","alt":"Concerts at: The O2"},
+  "/venues/the-pageant-saint-louis": {"url":"/og/venues-the-pageant-saint-louis.png","alt":"Concerts at: The Pageant"},
   "/venues/the-paramount-in-concert-with-northwell-huntington": {"url":"/og/venues-the-paramount-in-concert-with-northwell-huntington.png","alt":"Concerts at: The Paramount in concert with Northwell"},
   "/venues/the-pavilion-at-toyota-music-factory-irving": {"url":"/og/venues-the-pavilion-at-toyota-music-factory-irving.png","alt":"Concerts at: The Pavilion at Toyota Music Factory"},
   "/venues/the-salt-shed-indoors-shed-chicago": {"url":"/og/venues-the-salt-shed-indoors-shed-chicago.png","alt":"Concerts at: The Salt Shed Indoors (Shed)"},
@@ -602,8 +644,11 @@ export const OG_CARDS = {
   "/venues/the-union-salt-lake-city": {"url":"/og/venues-the-union-salt-lake-city.png","alt":"Concerts at: The Union"},
   "/venues/the-van-buren-phoenix": {"url":"/og/venues-the-van-buren-phoenix.png","alt":"Concerts at: The Van Buren"},
   "/venues/the-wiltern-los-angeles": {"url":"/og/venues-the-wiltern-los-angeles.png","alt":"Concerts at: The Wiltern"},
+  "/venues/the-wind-creek-event-center-bethlehem": {"url":"/og/venues-the-wind-creek-event-center-bethlehem.png","alt":"Concerts at: The Wind Creek Event Center"},
   "/venues/toyota-center-tx-houston": {"url":"/og/venues-toyota-center-tx-houston.png","alt":"Concerts at: Toyota Center - TX"},
+  "/venues/ubc-doug-mitchell-thunderbird-sports-centre-vancouver": {"url":"/og/venues-ubc-doug-mitchell-thunderbird-sports-centre-vancouver.png","alt":"Concerts at: UBC - Doug Mitchell Thunderbird Sports Centre"},
   "/venues/uber-arena-berlin": {"url":"/og/venues-uber-arena-berlin.png","alt":"Concerts at: Uber Arena"},
+  "/venues/ubs-arena-belmont-park": {"url":"/og/venues-ubs-arena-belmont-park.png","alt":"Concerts at: UBS Arena"},
   "/venues/united-center-chicago": {"url":"/og/venues-united-center-chicago.png","alt":"Concerts at: United Center"},
   "/venues/van-andel-arena-grand-rapids": {"url":"/og/venues-van-andel-arena-grand-rapids.png","alt":"Concerts at: Van Andel Arena"},
   "/venues/variety-playhouse-atlanta": {"url":"/og/venues-variety-playhouse-atlanta.png","alt":"Concerts at: Variety Playhouse"},
@@ -611,6 +656,7 @@ export const OG_CARDS = {
   "/venues/viejas-arena-at-aztec-bowl-san-diego-state-university-san-diego": {"url":"/og/venues-viejas-arena-at-aztec-bowl-san-diego-state-university-san-diego.png","alt":"Concerts at: Viejas Arena at Aztec Bowl San Diego State University"},
   "/venues/vogue-theatre-bc-vancouver": {"url":"/og/venues-vogue-theatre-bc-vancouver.png","alt":"Concerts at: Vogue Theatre-BC"},
   "/venues/vorst-nationaal-forest-national-forest-brussels": {"url":"/og/venues-vorst-nationaal-forest-national-forest-brussels.png","alt":"Concerts at: Vorst Nationaal/Forest National"},
+  "/venues/vystar-veterans-memorial-arena-jacksonville": {"url":"/og/venues-vystar-veterans-memorial-arena-jacksonville.png","alt":"Concerts at: VyStar Veterans Memorial Arena"},
   "/venues/xfinity-mobile-arena-philadelphia": {"url":"/og/venues-xfinity-mobile-arena-philadelphia.png","alt":"Concerts at: Xfinity Mobile Arena"},
   "/venues/youtube-theater-inglewood": {"url":"/og/venues-youtube-theater-inglewood.png","alt":"Concerts at: YouTube Theater"},
   "/venues/ziggo-dome-amsterdam": {"url":"/og/venues-ziggo-dome-amsterdam.png","alt":"Concerts at: Ziggo Dome"}

diff --git a/functions/_price-guides.js b/functions/_price-guides.js
@@ -50,7 +50,18 @@ import { eventLifecycleHeld, eventPublishable, publicOnsalePending, priceGuideGa
 // and artist-city pages all follow from the data. Removing one turns the URL
 // into a 301 to the artist page (see priceGuideRouteDecision). Candidates are
 // proposed in the `automation:price-guide-candidates` issue.
-export const PRICE_GUIDE_ARTISTS = Object.freeze(["oasis", "lizzy-mcalpine"]);
+export const PRICE_GUIDE_ARTISTS = Object.freeze([
+  "oasis",
+  "lizzy-mcalpine",
+  "bruno-mars",
+  "olivia-rodrigo",
+  "harry-styles",
+  "ed-sheeran",
+  "tame-impala",
+  "charli-xcx",
+  "gracie-abrams",
+  "don-omar"
+]);
 
 export const PRICE_GUIDE_SEGMENT = "ticket-prices";
 
